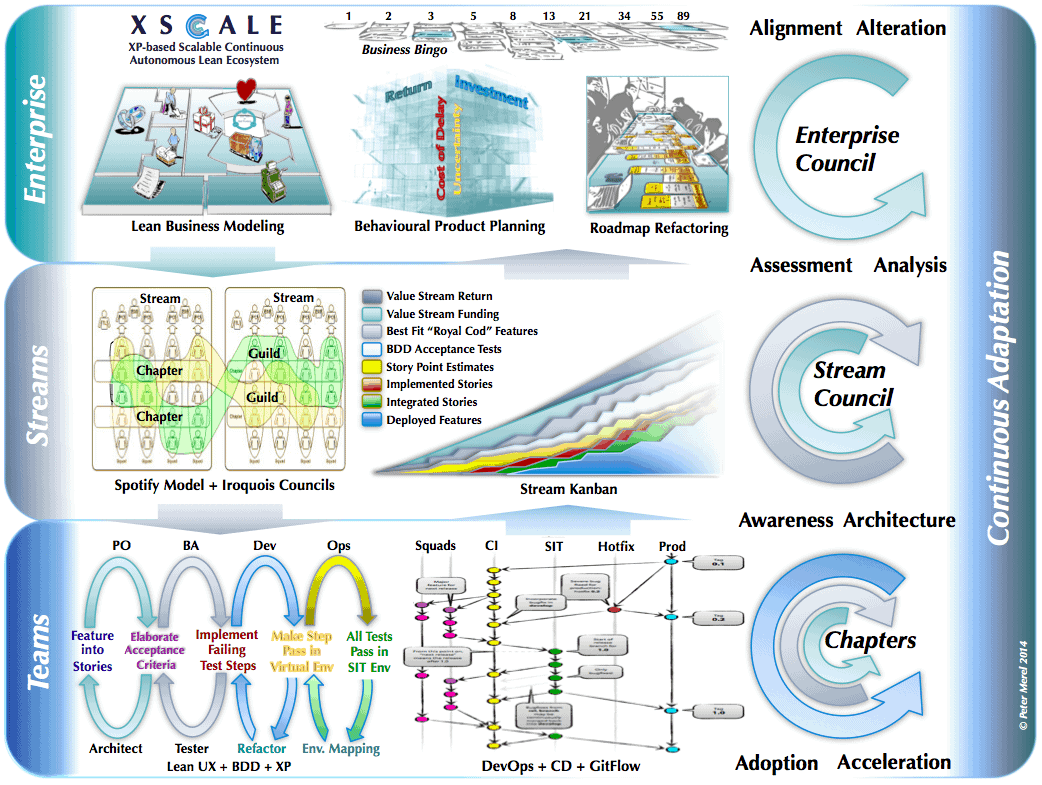
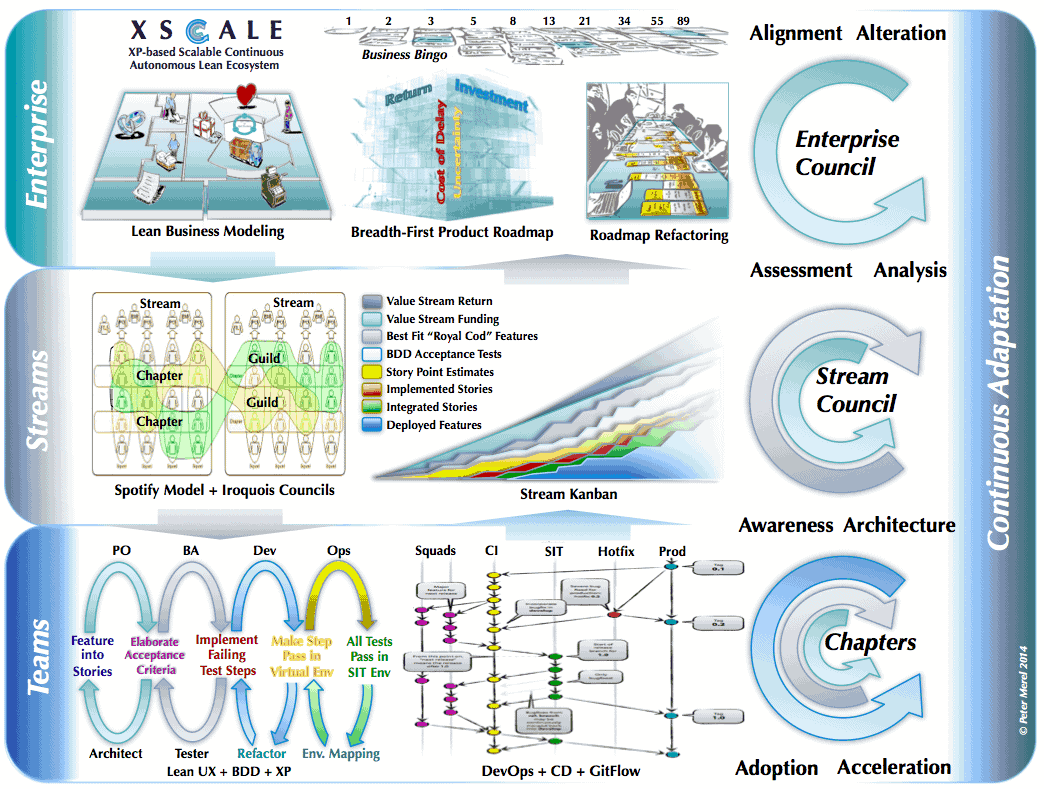
Site updated at 2014-04-27 02:55:25 UTC

diff --git a/2014/04/21/xscale/index.html b/2014/04/21/xscale/index.html
@@ -208,17 +208,17 @@ can cascade and multiply, representing an unacceptable risk to productivity.</p>
 of people. The number of combinations of a set grows very rapidly; a set of
 just 10 things has over 3.6 million distinct combinations.</p>
 
-<p>The all-hands release planning meetings &ldquo;town halls&rdquo; in SAFe  and LeSS fail to
-limit conversation to small combinations of concerns. The Spotify / Iroquois
-patterns reduce the scope of these conversations.</p>
+<p>The all-hands release planning meetings and &ldquo;town halls&rdquo; in SAFe  and LeSS
+fail to limit conversation to small combinations of concerns. The Spotify /
+Iroquois patterns actively reduce the scope of these conversations.</p>
 
-<p>Neverthelss, further challenges come from chopping things up fine.  Because
-Agile works as a hill-climbing algorithm, continously integrating little bits
-of functionality into the existing whole, it&rsquo;s happy to climb a molehill of
-value when there&rsquo;s an Everest right next door. XSCALE 8ses Business Model
-Canvases and Behavioural Product Planning to make sure the output of multiple
-teams adds up to a stream of whole features that respect relative ROI, stream
-funding limits, single piece flow, MVP and CoD constraints.</p>
+<p>Neverthelss, challenges come from chopping things up fine. Because Agile works
+as a hill-climbing algorithm, continously integrating little bits of
+functionality into an existing whole, it&rsquo;s happy to climb a molehill of value
+when there&rsquo;s an Everest right next door. Business Model Canvases and
+Breadth-First Product Roadmaps make sure the output of multiple teams adds up
+to a stream of whole features that respect relative ROI, stream funding
+limits, single piece flow, MVP and CoD constraints.</p>
 
 <h3>Continuous</h3>
 
